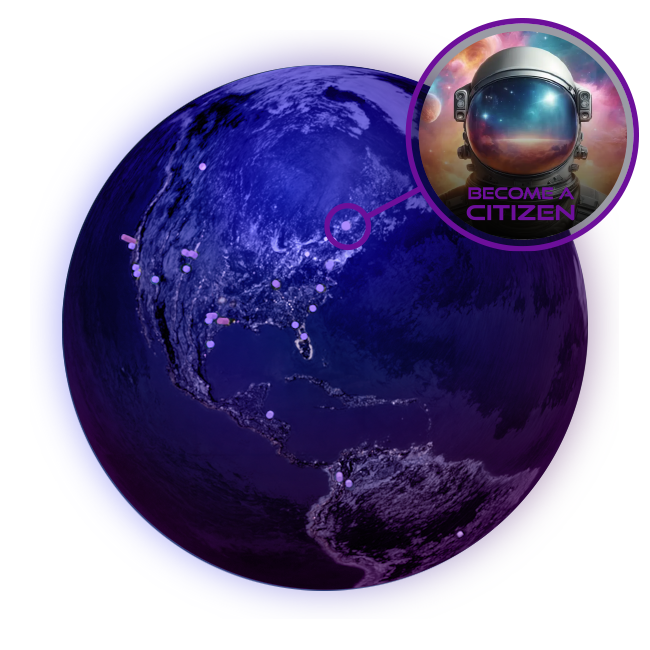
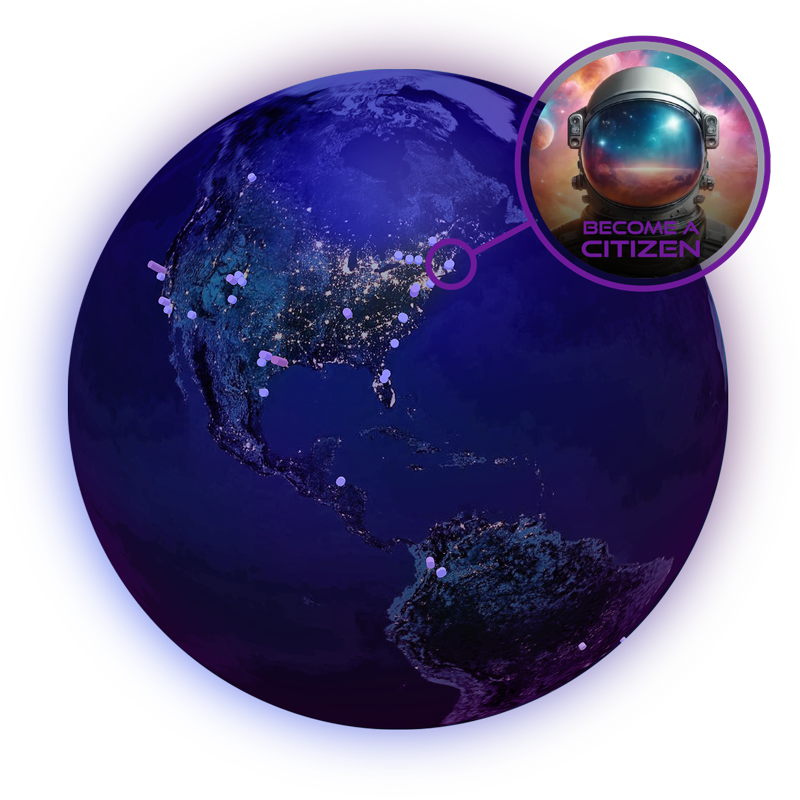
content updates for the welcome page (#371)
* content updates for the welcome page

* Update the earth image

diff --git a/ui/components/home/Callout1.tsx b/ui/components/home/Callout1.tsx
@@ -26,9 +26,7 @@ export default function Callout1() {
               id="paragraph"
               className="pt-2 pb-5 text-black text-lg w-[100%] max-w-[500px]"
             >
-              We are an open source space community where everything is
-              proposed, governed, and created by our members. Co-govern the treasury 
-              by locking $MOONEY to become a fully-fledged voter. 
+            The Space Acceleration Network is an onchain startup society focused on building a permanent settlement on the Moon and beyond. We aim to connect space visionaries and organizations with the funding, tools, and support needed to turn bold ideas into reality.
             </p>
             <StandardButton
               backgroundColor="bg-dark-cool"
@@ -38,7 +36,7 @@ export default function Callout1() {
               link="/map"
               paddingOnHover="pl-5"
             >
-              Explore The Network
+              Explore the Network
             </StandardButton>
           </div>
         </div>

diff --git a/ui/components/home/Callout2.tsx b/ui/components/home/Callout2.tsx
@@ -42,10 +42,7 @@ export default function Callout2() {
             id="paragraph"
             className="pt-2 pb-5 text-lg w-[100%] md:w-[100%] lg:max-w-[500px]"
           >
-            The Space Acceleration Network is an onchain startup society focused 
-            on building a permanent settlement on the Moon and beyond. We aim to 
-            connect space visionaries and organizations with the funding, tools, 
-            and support needed to turn bold ideas into reality.
+            We are an open source space community where everything is proposed, governed, and created by our members. Co-govern the treasury by locking $MOONEY to become a fully-fledged voter. 
           </p>
           <div className="flex items-center gap-2 mb-5">
             <button

diff --git a/ui/components/home/Hero.tsx b/ui/components/home/Hero.tsx
@@ -62,8 +62,8 @@ export default function Hero() {
             MoonDAO is accelerating our multiplanetary future with a global network and open platform to fund, collaborate, and compete on challenges that get us closer to a lunar settlement.
           </p>
           <StandardButton
-              backgroundColor="bg-dark-cool"
-              textColor="text-white"
+              backgroundColor="bg-white"
+              textColor="text-dark-cool"
               hoverColor="bg-mid-cool"
               borderRadius="rounded-tl-[10px] rounded-[2vmax]"
               link="/join"

diff --git a/ui/components/home/PartnerSection.tsx b/ui/components/home/PartnerSection.tsx
@@ -5,11 +5,6 @@ import BrandLogo from './BrandLogo'
 export default function PartnerSection() {
   return (
     <>
-      <section className="flex max-w-[1200px] items-center justify-center lg:pb-5 px-1">
-        <Link href="/team" passHref>
-          <TeamTier setSelectedTier={() => {}} compact />
-        </Link>
-      </section>
       <section
         id="network-section-container"
         className="mt-5 flex justify-start bg-white rounded-br-[5vmax] md:rounded-br-[0vmax] rounded-tl-[5vmax] rounded-bl-[5vmax] mb-5"
